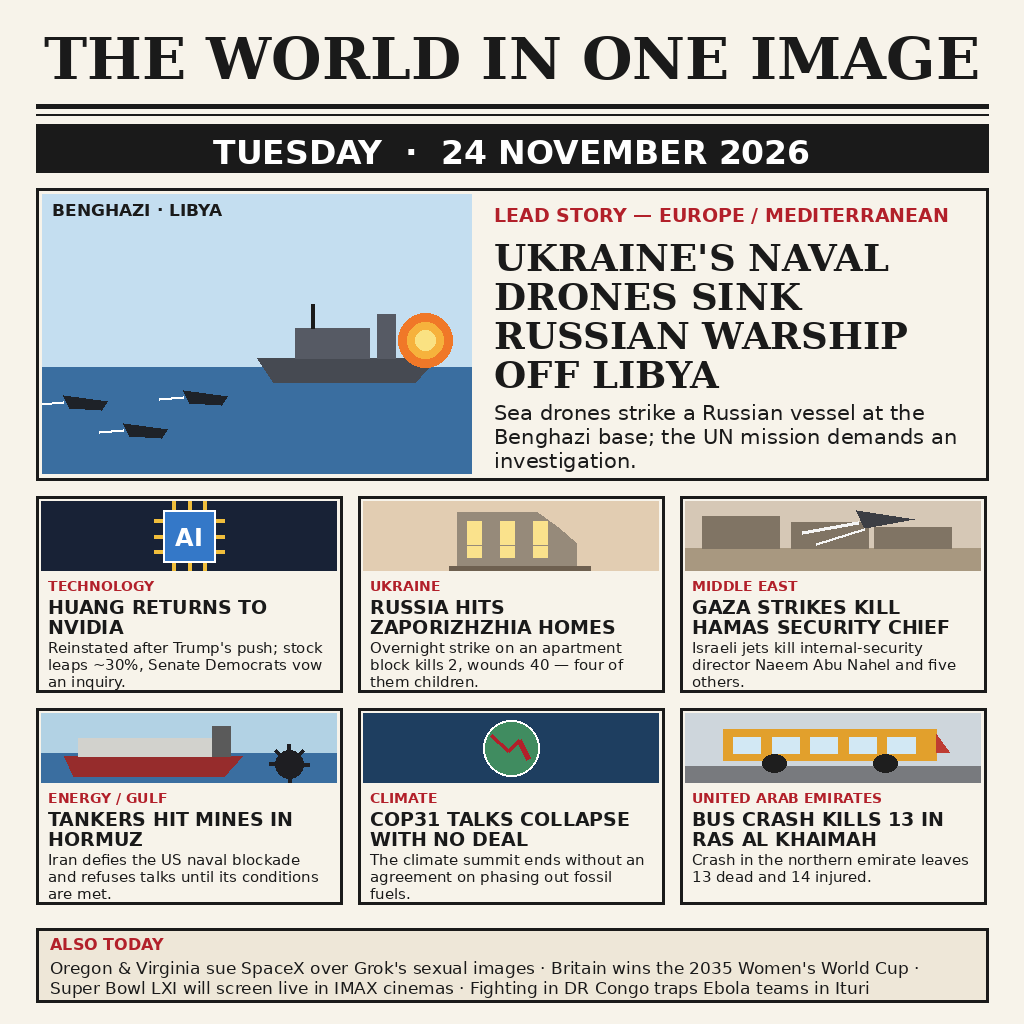
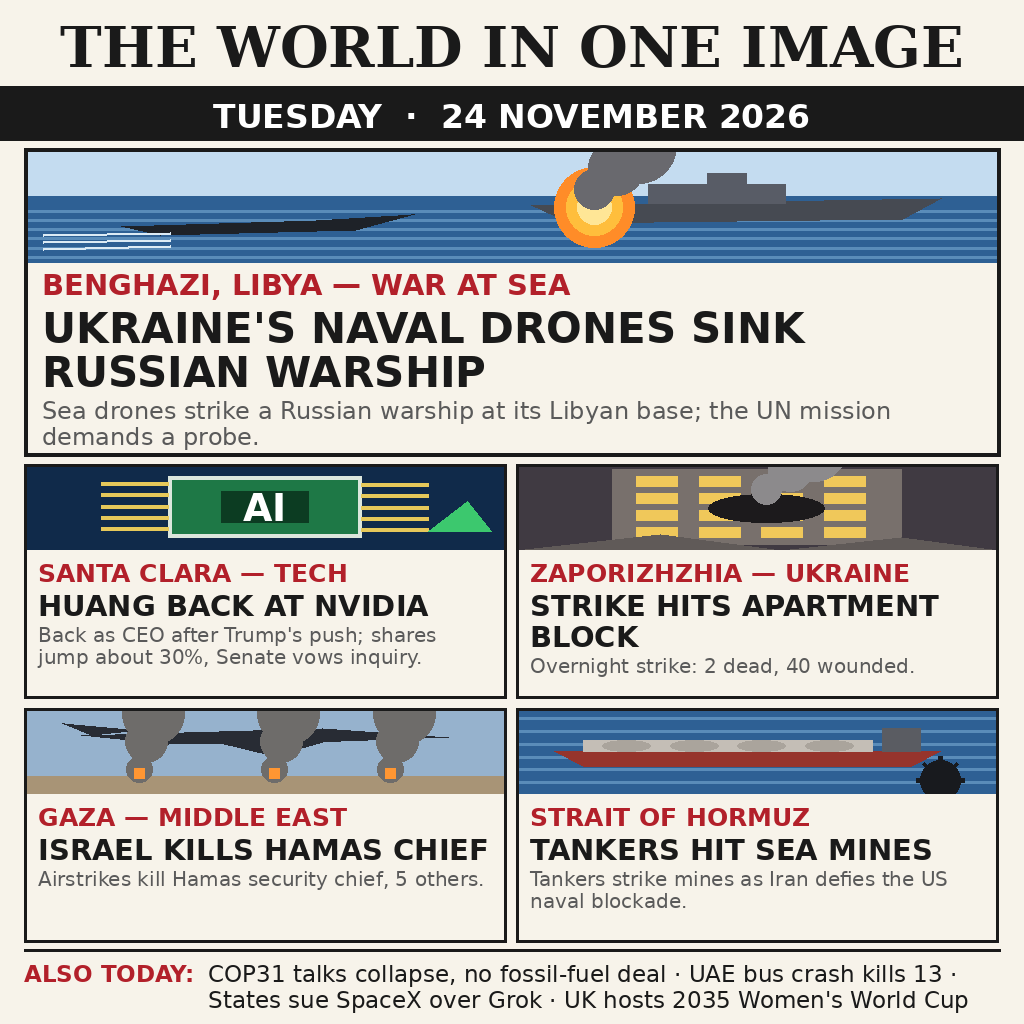
v2: bigger type, dominant lead, 2x2 grid legible at 300px

diff --git a/render2.py b/render2.py
@@ -1,0 +1,216 @@
+#!/usr/bin/env python3
+"""Render v2 of the front page summing up Tuesday 24 November 2026.
+
+Improvements over v1: far larger type so every headline stays legible when
+the page is shrunk to ~300px, a dominant lead panel, four secondary panels
+in a 2x2 grid with one short headline and one detail line each, and a
+footer strip carrying the remaining stories. Geometry is budgeted to the
+1024px page: masthead 148, lead 330, grid 2x218+10, footer ~78.
+Deterministic: fixed geometry, vendored fonts, no clocks, no randomness.
+"""
+from pathlib import Path
+
+from PIL import Image, ImageDraw, ImageFont
+
+ROOT = Path(__file__).resolve().parent
+W = H = 1024
+PAPER = (247, 243, 234)
+INK = (26, 26, 26)
+RED = (178, 32, 42)
+SEA = (46, 96, 148)
+SKY = (196, 220, 240)
+WHITE = (255, 255, 255)
+GREY = (90, 90, 90)
+
+SERIF = "DejaVuSerif-Bold.ttf"
+SANSB = "DejaVuSans-Bold.ttf"
+SANS = "DejaVuSans.ttf"
+
+
+def font(name, size):
+    return ImageFont.truetype(str(ROOT / "fonts" / name), size)
+
+
+def wrap(draw, text, fnt, max_w):
+    words, lines, cur = text.split(), [], ""
+    for w in words:
+        t = (cur + " " + w).strip()
+        if draw.textlength(t, font=fnt) <= max_w:
+            cur = t
+        else:
+            lines.append(cur)
+            cur = w
+    if cur:
+        lines.append(cur)
+    return lines
+
+
+def block(draw, x, y, text, fnt, fill, max_w, leading=1.1):
+    for line in wrap(draw, text, fnt, max_w):
+        draw.text((x, y), line, font=fnt, fill=fill)
+        y += int(fnt.size * leading)
+    return y
+
+
+# ---------------------------------------------------------------- scenes
+def scene_lead(w, h):
+    """Sea, a warship, a naval drone and an explosion."""
+    im = Image.new("RGB", (w, h), SKY)
+    d = ImageDraw.Draw(im)
+    d.rectangle([0, h * 0.42, w, h], fill=SEA)
+    for i in range(6):
+        y = int(h * 0.55 + i * h * 0.08)
+        d.line([0, y, w, y], fill=(90, 140, 185), width=3)
+    d.polygon([(w * 0.52, h * 0.50), (w * 0.94, h * 0.44), (w * 0.90, h * 0.62),
+               (w * 0.56, h * 0.66)], fill=(70, 74, 82))
+    d.rectangle([w * 0.64, h * 0.32, w * 0.78, h * 0.48], fill=(88, 92, 102))
+    d.rectangle([w * 0.70, h * 0.22, w * 0.74, h * 0.32], fill=(88, 92, 102))
+    for r, c in [(40, (255, 140, 40)), (28, (255, 190, 60)), (17, (255, 230, 150))]:
+        d.ellipse([w * 0.585 - r, h * 0.52 - r, w * 0.585 + r, h * 0.52 + r], fill=c)
+    for i, r in enumerate([20, 28, 38]):
+        cx, cy = w * 0.585 + i * 22, h * 0.36 - i * 22
+        d.ellipse([cx - r, cy - r, cx + r, cy + r], fill=(105, 105, 110))
+    d.polygon([(w * 0.10, h * 0.68), (w * 0.30, h * 0.63), (w * 0.34, h * 0.72),
+               (w * 0.14, h * 0.76)], fill=(30, 34, 40))
+    d.polygon([(w * 0.30, h * 0.63), (w * 0.40, h * 0.58), (w * 0.34, h * 0.72)], fill=(30, 34, 40))
+    for i in range(3):
+        d.line([w * 0.02, h * (0.76 + i * 0.06), w * 0.15, h * (0.74 + i * 0.06)],
+               fill=(220, 235, 245), width=3)
+    return im
+
+
+def scene_chip(w, h):
+    im = Image.new("RGB", (w, h), (16, 42, 74))
+    d = ImageDraw.Draw(im)
+    d.rectangle([w * 0.30, h * 0.14, w * 0.70, h * 0.86], fill=(30, 120, 70), outline=(220, 230, 220), width=4)
+    for i in range(5):
+        yy = h * (0.24 + i * 0.13)
+        d.line([w * 0.30, yy, w * 0.16, yy], fill=(230, 200, 90), width=4)
+        d.line([w * 0.70, yy, w * 0.84, yy], fill=(230, 200, 90), width=4)
+    d.rectangle([w * 0.41, h * 0.32, w * 0.59, h * 0.68], fill=(12, 60, 34))
+    d.text((w * 0.5, h * 0.5), "AI", font=font(SANSB, 38), fill=WHITE, anchor="mm")
+    d.polygon([(w * 0.84, h * 0.78), (w * 0.92, h * 0.44), (w * 0.97, h * 0.78)], fill=(60, 200, 110))
+    return im
+
+
+def scene_building(w, h):
+    im = Image.new("RGB", (w, h), (64, 58, 66))
+    d = ImageDraw.Draw(im)
+    d.rectangle([w * 0.20, h * 0.06, w * 0.80, h * 0.94], fill=(120, 112, 108))
+    for r in range(4):
+        for c in range(4):
+            x, y = w * (0.25 + c * 0.13), h * (0.14 + r * 0.20)
+            d.rectangle([x, y, x + w * 0.085, y + h * 0.12], fill=(240, 200, 90))
+    d.ellipse([w * 0.40, h * 0.36, w * 0.64, h * 0.68], fill=(28, 26, 28))
+    d.polygon([(0, h), (w * 0.3, h * 0.82), (w * 0.55, h)], fill=(96, 90, 88))
+    d.polygon([(w * 0.55, h), (w * 0.8, h * 0.86), (w, h)], fill=(96, 90, 88))
+    for i, r in enumerate([15, 22, 32]):
+        cx, cy = w * 0.52 + i * 24, h * 0.30 - i * 20
+        d.ellipse([cx - r, cy - r, cx + r, cy + r], fill=(140, 138, 140))
+    return im
+
+
+def scene_jet(w, h):
+    im = Image.new("RGB", (w, h), (150, 178, 205))
+    d = ImageDraw.Draw(im)
+    d.rectangle([0, h * 0.80, w, h], fill=(168, 148, 118))
+    d.polygon([(w * 0.12, h * 0.32), (w * 0.62, h * 0.24), (w * 0.88, h * 0.34),
+               (w * 0.60, h * 0.40), (w * 0.30, h * 0.42)], fill=(40, 44, 52))
+    d.polygon([(w * 0.40, h * 0.40), (w * 0.52, h * 0.56), (w * 0.62, h * 0.40)], fill=(40, 44, 52))
+    d.polygon([(w * 0.14, h * 0.32), (w * 0.08, h * 0.18), (w * 0.24, h * 0.26)], fill=(40, 44, 52))
+    for bx in (0.24, 0.52, 0.76):
+        for i, r in enumerate([13, 21, 31]):
+            cx, cy = w * bx + i * 7, h * 0.72 - i * 28
+            d.ellipse([cx - r, cy - r, cx + r, cy + r], fill=(110, 108, 106))
+        d.rectangle([w * bx - 5, h * 0.70, w * bx + 5, h * 0.82], fill=(255, 150, 50))
+    return im
+
+
+def scene_tanker(w, h):
+    im = Image.new("RGB", (w, h), SEA)
+    d = ImageDraw.Draw(im)
+    for i in range(6):
+        y = int(h * 0.12 + i * h * 0.15)
+        d.line([0, y, w, y], fill=(90, 140, 185), width=3)
+    d.polygon([(w * 0.08, h * 0.50), (w * 0.88, h * 0.50), (w * 0.82, h * 0.68),
+               (w * 0.14, h * 0.68)], fill=(150, 52, 44))
+    d.rectangle([w * 0.14, h * 0.38, w * 0.74, h * 0.50], fill=(196, 190, 182))
+    for i in range(4):
+        x = w * (0.18 + i * 0.14)
+        d.ellipse([x, h * 0.38, x + w * 0.10, h * 0.50], fill=(170, 164, 156))
+    d.rectangle([w * 0.76, h * 0.24, w * 0.84, h * 0.50], fill=(90, 92, 98))
+    cx, cy, r = w * 0.88, h * 0.84, 20
+    d.ellipse([cx - r, cy - r, cx + r, cy + r], fill=(24, 26, 30))
+    for dx, dy in [(-24, 0), (24, 0), (0, -24), (0, 24), (-17, -17), (17, -17), (-17, 17), (17, 17)]:
+        d.line([cx, cy, cx + dx, cy + dy], fill=(24, 26, 30), width=5)
+    return im
+
+
+# ---------------------------------------------------------------- layout
+def panel(page, x, y, w, h, scene, kick, head, sub):
+    page.paste(scene(w, 86), (x, y))
+    d = ImageDraw.Draw(page)
+    d.rectangle([x, y, x + w, y + h], outline=INK, width=3)
+    ty = y + 94
+    d.text((x + 14, ty), kick, font=font(SANSB, 25), fill=RED)
+    ty += 31
+    ty = block(d, x + 14, ty, head, font(SANSB, 29), INK, w - 28, 1.08)
+    block(d, x + 14, ty + 3, sub, font(SANS, 20), GREY, w - 28, 1.1)
+
+
+def main():
+    page = Image.new("RGB", (W, H), PAPER)
+    d = ImageDraw.Draw(page)
+
+    # masthead (0..148)
+    d.text((W // 2, 14), "THE WORLD IN ONE IMAGE", font=font(SERIF, 56),
+           fill=INK, anchor="ma")
+    d.rectangle([0, 86, W, 140], fill=INK)
+    d.text((W // 2, 97), "TUESDAY  ·  24 NOVEMBER 2026", font=font(SANSB, 33),
+           fill=WHITE, anchor="ma")
+
+    # lead story (148..448)
+    lx, ly, lw = 24, 148, W - 48
+    page.paste(scene_lead(lw, 115), (lx, ly))
+    d = ImageDraw.Draw(page)
+    d.rectangle([lx, ly, lx + lw, ly + 308], outline=INK, width=4)
+    ty = ly + 120
+    d.text((lx + 18, ty), "BENGHAZI, LIBYA — WAR AT SEA", font=font(SANSB, 29), fill=RED)
+    ty += 36
+    ty = block(d, lx + 18, ty, "UKRAINE'S NAVAL DRONES SINK RUSSIAN WARSHIP",
+               font(SANSB, 42), INK, lw - 36, 1.06)
+    block(d, lx + 18, ty + 4,
+          "Sea drones strike a Russian warship at its Libyan base; the UN mission demands a probe.",
+          font(SANS, 24), GREY, lw - 36, 1.1)
+
+    # 2x2 secondary grid (458..934)
+    gx, gy, gw, gh, gap = 24, 464, 482, 234, 10
+    panel(page, gx, gy, gw, gh, scene_chip, "SANTA CLARA — TECH",
+          "HUANG BACK AT NVIDIA",
+          "Back as CEO after Trump's push; shares jump about 30%, Senate vows inquiry.")
+    panel(page, gx + gw + gap, gy, gw, gh, scene_building, "ZAPORIZHZHIA — UKRAINE",
+          "STRIKE HITS APARTMENT BLOCK",
+          "Overnight strike: 2 dead, 40 wounded.")
+    panel(page, gx, gy + gh + gap, gw, gh, scene_jet, "GAZA — MIDDLE EAST",
+          "ISRAEL KILLS HAMAS CHIEF",
+          "Airstrikes kill Hamas security chief, 5 others.")
+    panel(page, gx + gw + gap, gy + gh + gap, gw, gh, scene_tanker, "STRAIT OF HORMUZ",
+          "TANKERS HIT SEA MINES",
+          "Tankers strike mines as Iran defies the US naval blockade.")
+
+    # footer strip (944..1008)
+    fy = 950
+    d = ImageDraw.Draw(page)
+    d.line([24, fy, W - 24, fy], fill=INK, width=3)
+    d.text((24, fy + 10), "ALSO TODAY:", font=font(SANSB, 23), fill=RED)
+    block(d, 208, fy + 10,
+          "COP31 talks collapse, no fossil-fuel deal  ·  UAE bus crash kills 13  ·  States sue SpaceX over Grok  ·  UK hosts 2035 Women's World Cup",
+          font(SANS, 23), INK, W - 232, 1.15)
+
+    out = ROOT / "assets" / "entry.png"
+    page.save(out, format="PNG", optimize=True)
+    print(f"wrote {out} ({out.stat().st_size} bytes)")
+
+
+if __name__ == "__main__":
+    main()
